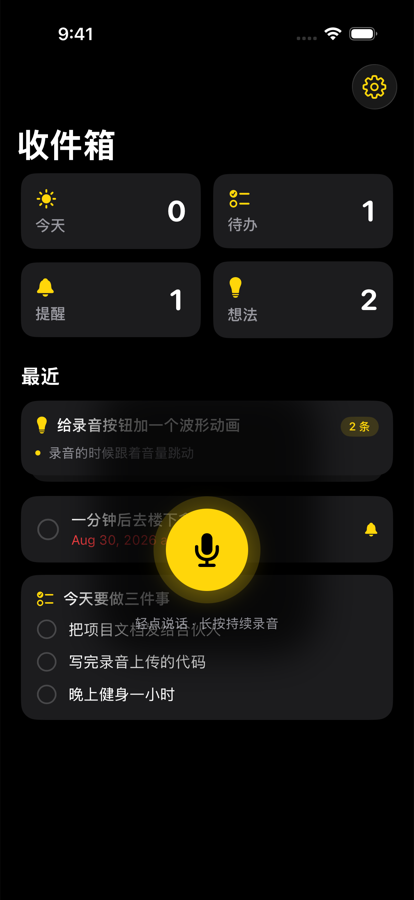
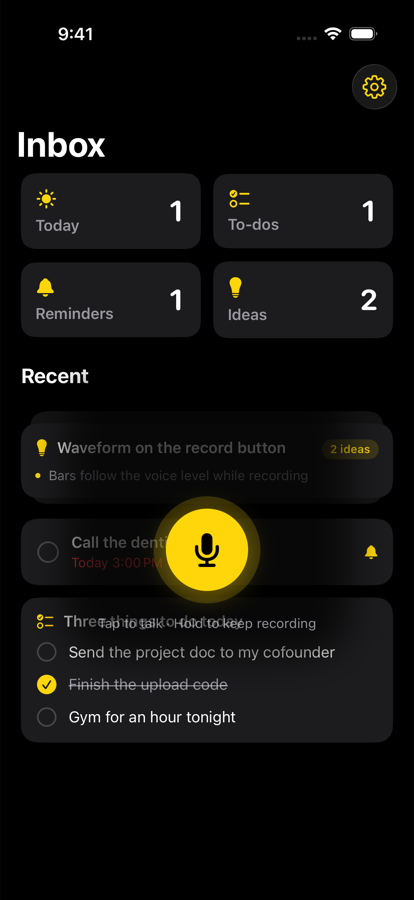
Voice Inbox: English UI screenshots, bilingual recognition note

diff --git a/app/content.js b/app/content.js
@@ -129,7 +129,7 @@ export const projects = [
       ],
       body: [
         "The premise is that capture friction kills capture. Every notes app makes you pick a category before you can type; this one has exactly one input — an amber button in the middle of the screen — and the classification happens after you speak. Tap to record, hold to keep recording, drag to the lock to go hands-free. What you said comes back as a card you confirm, edit, or reclassify; the raw transcript is always one tap away.",
-        "Architecture: a native SwiftUI + SwiftData app (Swift 6, strict concurrency) and a deliberately thin TypeScript/Fastify backend that does five things — issue upload URLs, orchestrate transcription and structuring, enforce quotas, and delete audio the moment it has been transcribed. Speech recognition and structuring sit behind two provider interfaces: Tencent Cloud ASR (TC3-signed) and Claude with structured outputs on the server; Apple's Speech framework and a rule-based structurer on the phone. The phone picks the path from the server's /health and finishes on-device if the server is unreachable, so a capture never dies on a network problem.",
+        "Architecture: a native SwiftUI + SwiftData app (Swift 6, strict concurrency) and a deliberately thin TypeScript/Fastify backend that does five things — issue upload URLs, orchestrate transcription and structuring, enforce quotas, and delete audio the moment it has been transcribed. Speech recognition and structuring sit behind two provider interfaces: Tencent Cloud ASR (TC3-signed) and Claude with structured outputs on the server; Apple's Speech framework and a rule-based structurer on the phone. Recognition is bilingual — Mandarin or English, chosen in Settings — with an English UI and a Simplified Chinese translation. The phone picks the path from the server's /health and finishes on-device if the server is unreachable, so a capture never dies on a network problem.",
         "Design system: black-and-white by day with an orange accent, black-and-yellow by night, one chromatic color at a time, with the icon shipping both appearances. Motion follows Apple's fluid-interface rules — touch-down feedback, rubber-banding at the drag boundary, momentum-projected swipe-to-flip on the idea stack, critically-damped springs for state changes, and a Reduce Motion path everywhere.",
         "Verification ledger: the full loop (record → upload → transcribe → structure → confirm → card + local notification) is exercised end to end in the simulator with screenshots per state; the app is signed with a free developer team and installed directly on an iPhone 14 Pro (iOS 26). Tencent ASR was verified against a synthesized Mandarin clip (correct transcript, correct reminder card). What is not yet verified: a real-speech run on the physical device, and Claude-based structuring, which activates only when an API key is configured — until then structuring is rule-based, and the app says so in Settings."
       ],
